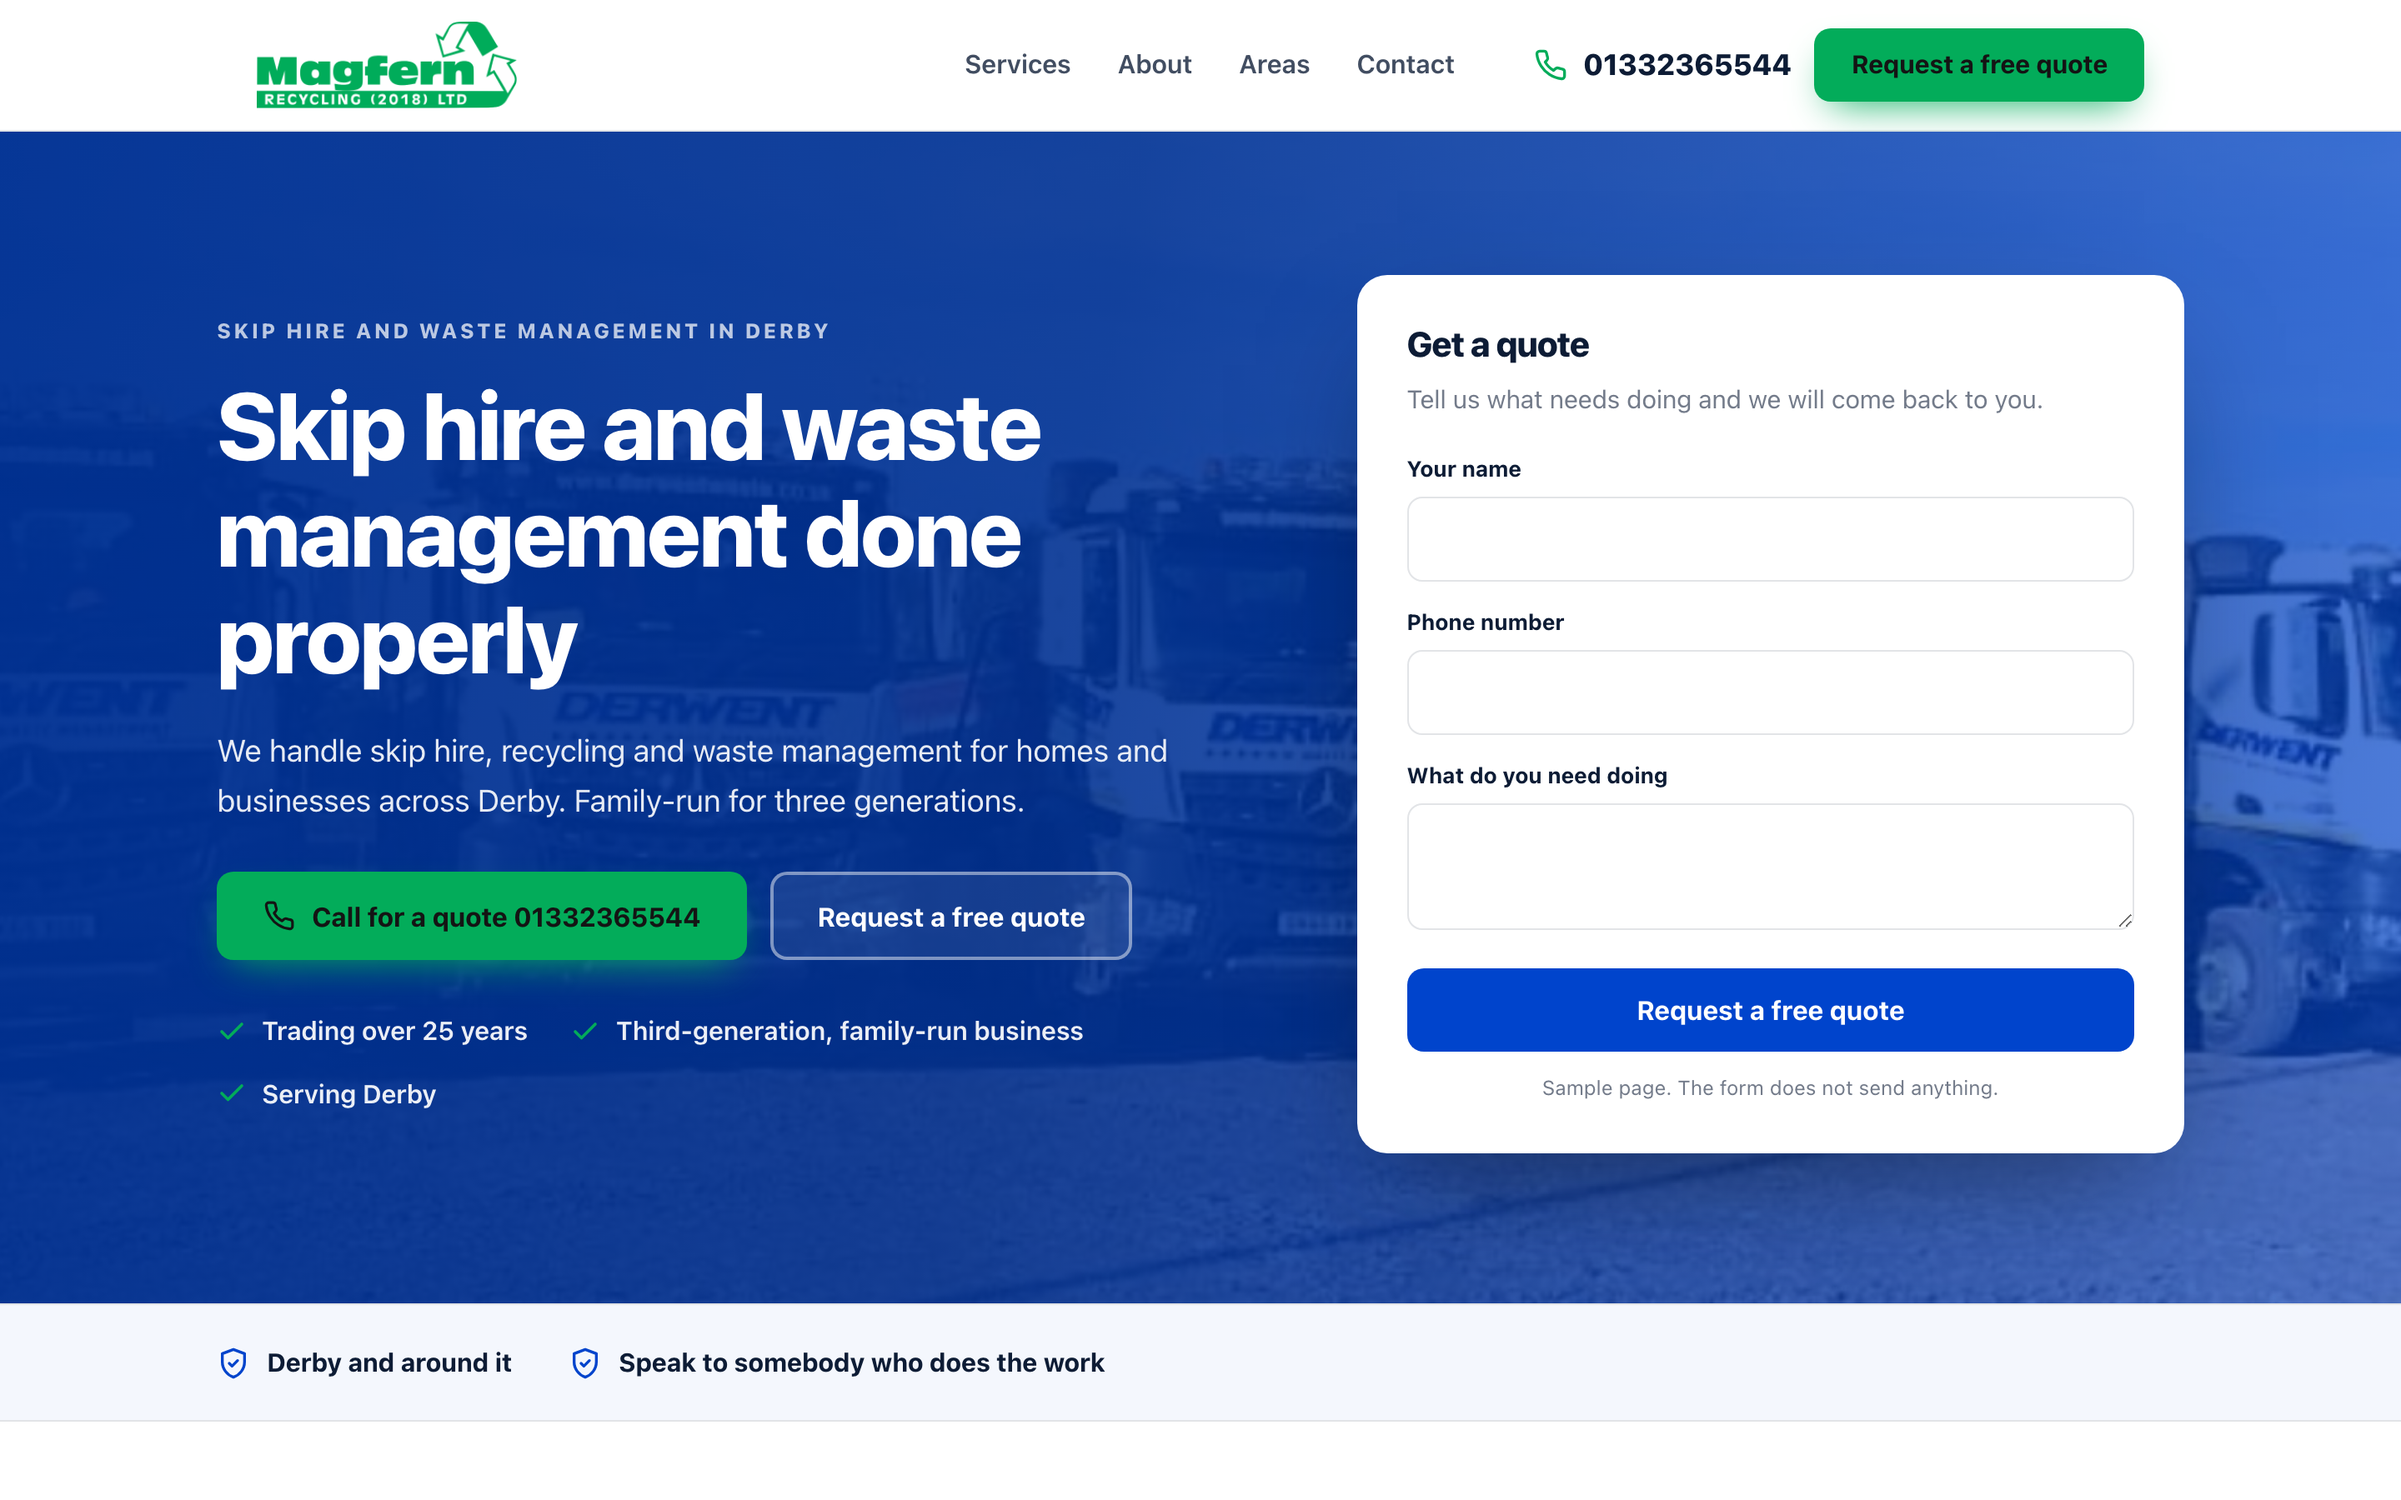
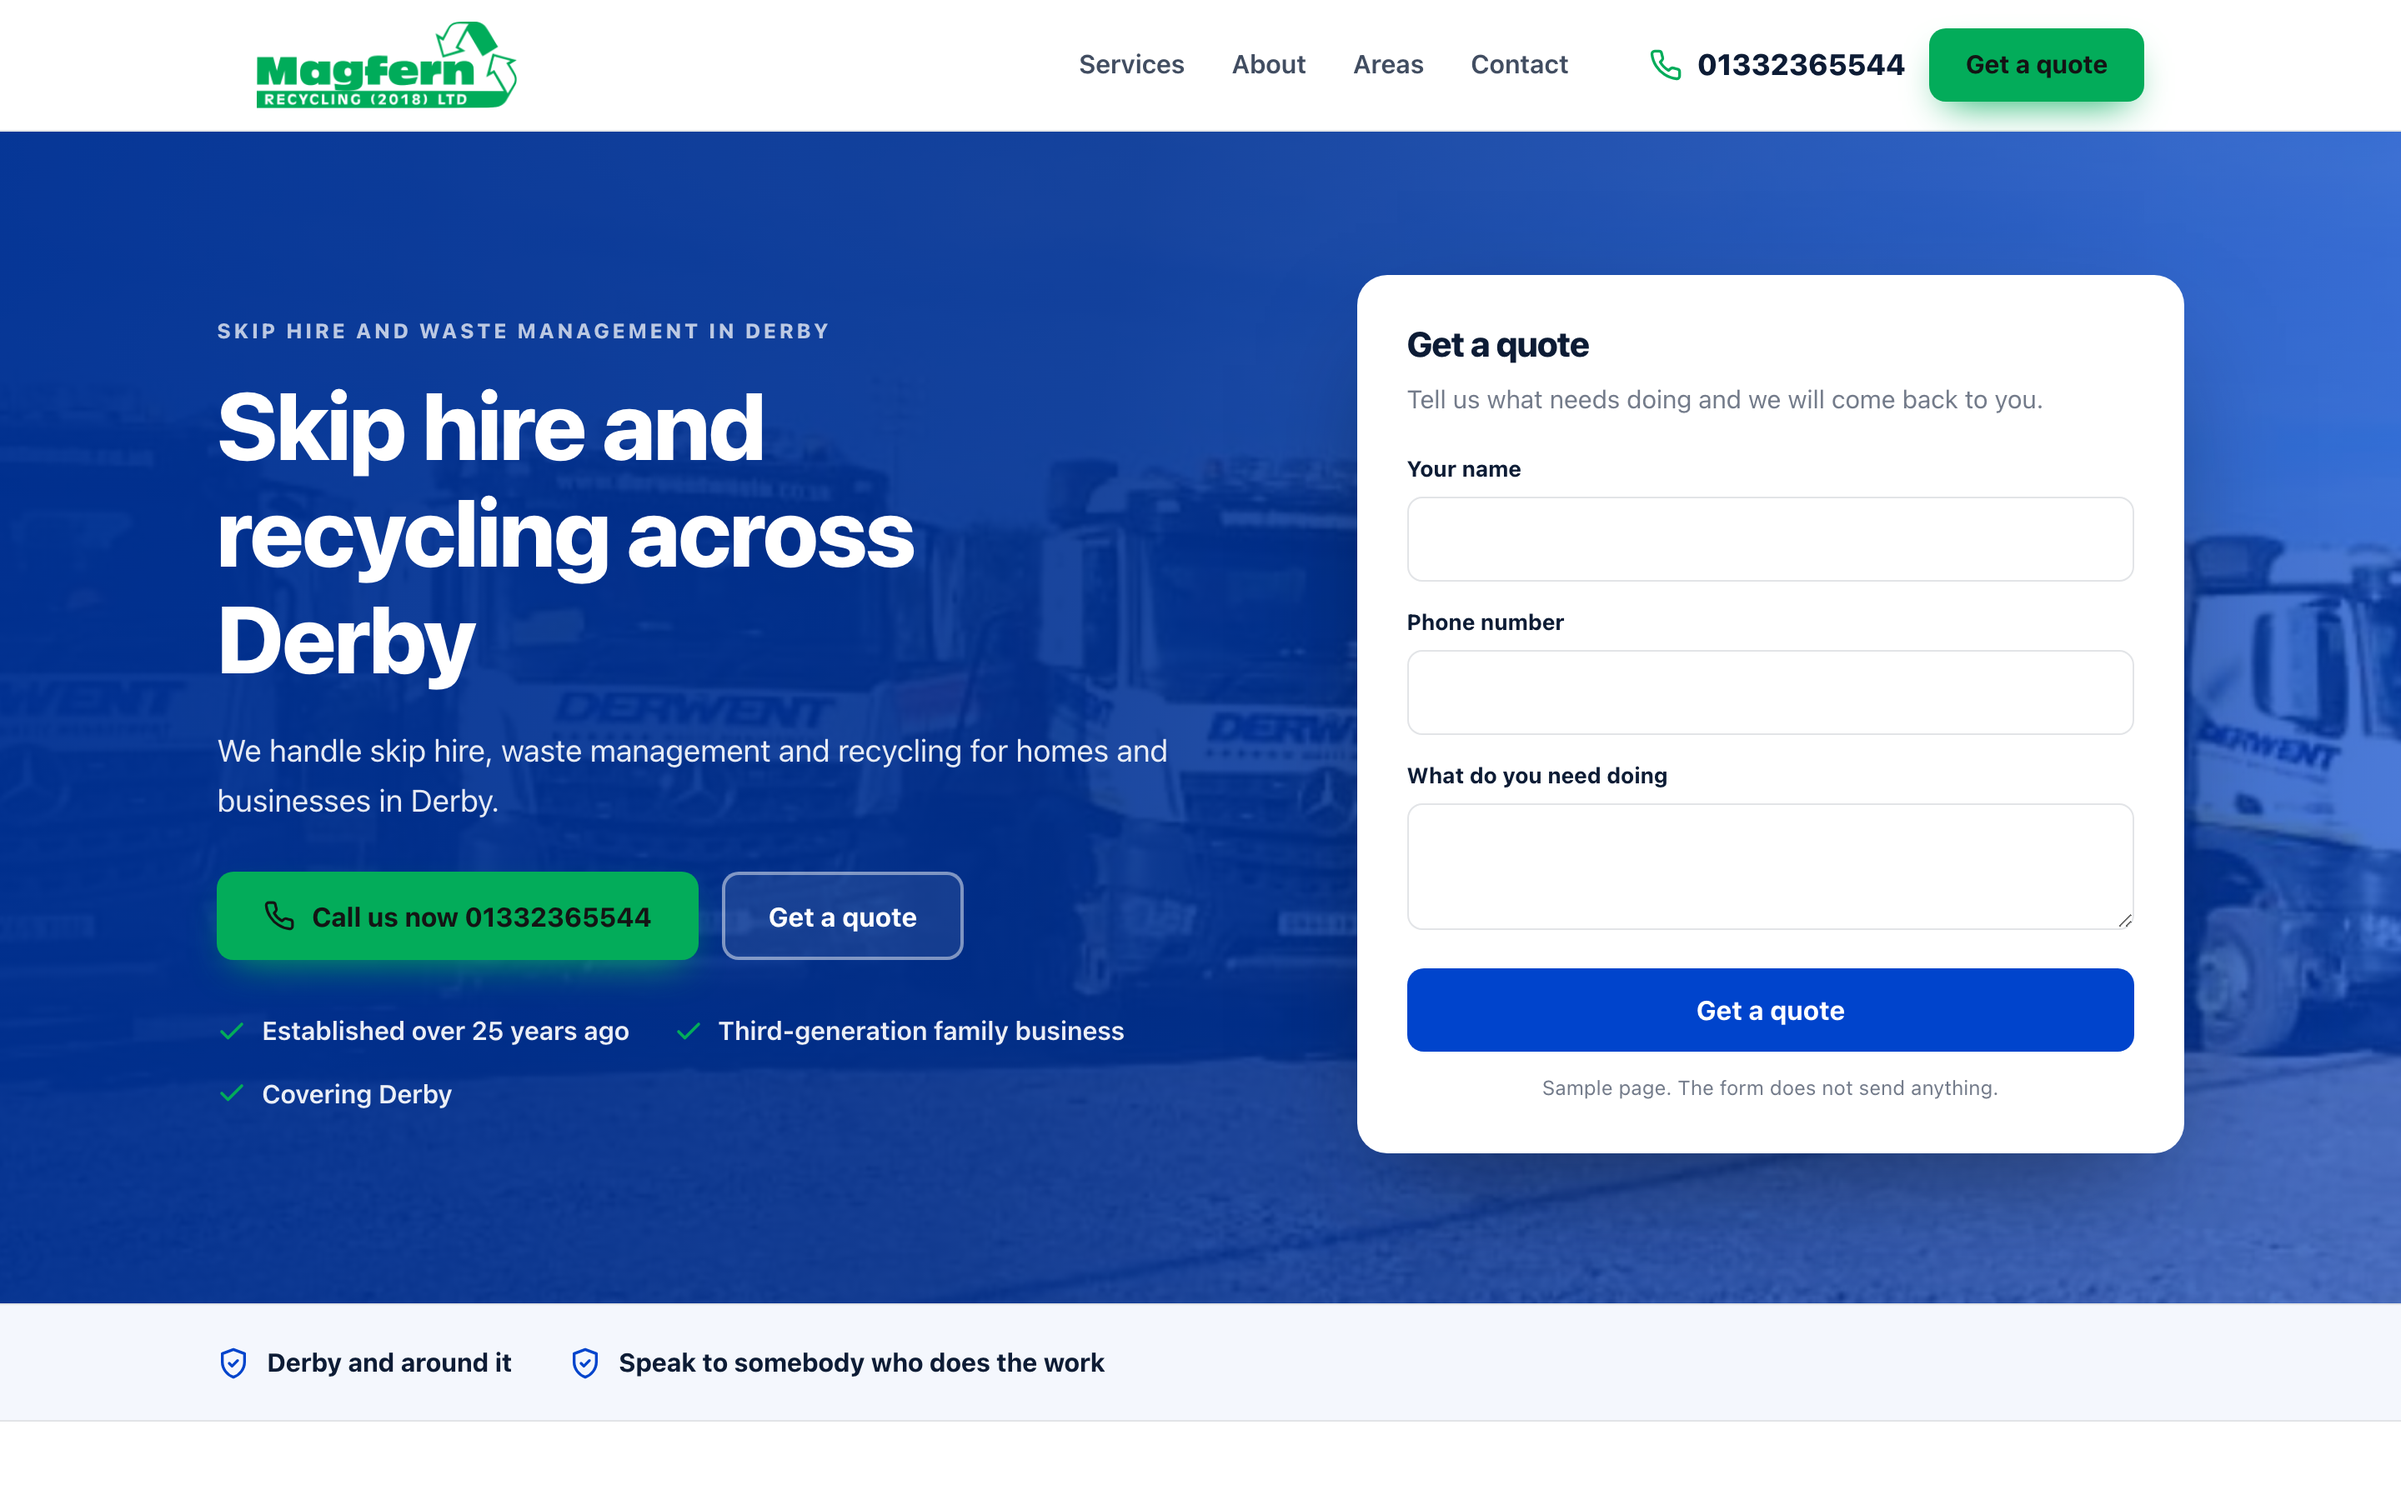
Sample homepage for Magfern Recycling Ltd

diff --git a/docs/e167220f99/index.html b/docs/e167220f99/index.html
@@ -4,13 +4,13 @@
 <meta charset="utf-8">
 <meta name="viewport" content="width=device-width, initial-scale=1">
 <meta name="robots" content="noindex,nofollow">
-<meta name="aso-build" content="">
+<meta name="aso-build" content="a5c5fa5050aa">
 <title>Magfern Recycling Ltd sample homepage</title>
-<meta name="description" content="We handle skip hire, recycling and waste management for homes and businesses across Derby. Family-run for three generations.">
+<meta name="description" content="We handle skip hire, waste management and recycling for homes and businesses in Derby.">
 <link rel="canonical" href="https://markygff.github.io/aso-mockups/e167220f99/">
 <meta property="og:type" content="website">
 <meta property="og:title" content="Magfern Recycling Ltd sample homepage">
-<meta property="og:description" content="We handle skip hire, recycling and waste management for homes and businesses across Derby. Family-run for three generations.">
+<meta property="og:description" content="We handle skip hire, waste management and recycling for homes and businesses in Derby.">
 <meta property="og:url" content="https://markygff.github.io/aso-mockups/e167220f99/">
 <meta property="og:image" content="img/p00.jpg"><style>
 :root{
@@ -127,7 +127,7 @@ p{margin:0}
     </nav>
     <div class="header-cta">
       <a class="tel" href="tel:+441332365544"><svg viewBox="0 0 24 24" fill="none" stroke="currentColor" stroke-width="2" stroke-linecap="round" stroke-linejoin="round" aria-hidden="true"><path d="M22 16.9v3a2 2 0 0 1-2.2 2 19.8 19.8 0 0 1-8.6-3.1 19.5 19.5 0 0 1-6-6 19.8 19.8 0 0 1-3.1-8.7A2 2 0 0 1 4.1 2h3a2 2 0 0 1 2 1.7c.1 1 .4 1.9.7 2.8a2 2 0 0 1-.5 2.1L8.1 9.9a16 16 0 0 0 6 6l1.3-1.2a2 2 0 0 1 2.1-.5c.9.3 1.8.6 2.8.7a2 2 0 0 1 1.7 2z"/></svg><span>01332365544</span></a>
-      <span class="btn btn-accent">Request a free quote</span>
+      <span class="btn btn-accent">Get a quote</span>
     </div>
   </div>
 </header>
@@ -137,14 +137,14 @@ p{margin:0}
   <div class="wrap hero-in">
     <div>
       <p class="eyebrow">Skip hire and waste management in Derby</p>
-      <h1>Skip hire and waste management done properly</h1>
-      <p class="hero-sub">We handle skip hire, recycling and waste management for homes and businesses across Derby. Family-run for three generations.</p>
+      <h1>Skip hire and recycling across Derby</h1>
+      <p class="hero-sub">We handle skip hire, waste management and recycling for homes and businesses in Derby.</p>
       <div class="hero-actions">
-        <span class="btn btn-accent"><svg viewBox="0 0 24 24" fill="none" stroke="currentColor" stroke-width="2" stroke-linecap="round" stroke-linejoin="round" aria-hidden="true"><path d="M22 16.9v3a2 2 0 0 1-2.2 2 19.8 19.8 0 0 1-8.6-3.1 19.5 19.5 0 0 1-6-6 19.8 19.8 0 0 1-3.1-8.7A2 2 0 0 1 4.1 2h3a2 2 0 0 1 2 1.7c.1 1 .4 1.9.7 2.8a2 2 0 0 1-.5 2.1L8.1 9.9a16 16 0 0 0 6 6l1.3-1.2a2 2 0 0 1 2.1-.5c.9.3 1.8.6 2.8.7a2 2 0 0 1 1.7 2z"/></svg>Call for a quote 01332365544</span>
-        <span class="btn btn-ghost">Request a free quote</span>
+        <span class="btn btn-accent"><svg viewBox="0 0 24 24" fill="none" stroke="currentColor" stroke-width="2" stroke-linecap="round" stroke-linejoin="round" aria-hidden="true"><path d="M22 16.9v3a2 2 0 0 1-2.2 2 19.8 19.8 0 0 1-8.6-3.1 19.5 19.5 0 0 1-6-6 19.8 19.8 0 0 1-3.1-8.7A2 2 0 0 1 4.1 2h3a2 2 0 0 1 2 1.7c.1 1 .4 1.9.7 2.8a2 2 0 0 1-.5 2.1L8.1 9.9a16 16 0 0 0 6 6l1.3-1.2a2 2 0 0 1 2.1-.5c.9.3 1.8.6 2.8.7a2 2 0 0 1 1.7 2z"/></svg>Call us now 01332365544</span>
+        <span class="btn btn-ghost">Get a quote</span>
       </div>
       <ul class="hero-bullets">
-<li><svg viewBox="0 0 24 24" fill="none" stroke="currentColor" stroke-width="2.4" stroke-linecap="round" stroke-linejoin="round" aria-hidden="true"><path d="M20 6 9 17l-5-5"/></svg><span>Trading over 25 years</span></li><li><svg viewBox="0 0 24 24" fill="none" stroke="currentColor" stroke-width="2.4" stroke-linecap="round" stroke-linejoin="round" aria-hidden="true"><path d="M20 6 9 17l-5-5"/></svg><span>Third-generation, family-run business</span></li><li><svg viewBox="0 0 24 24" fill="none" stroke="currentColor" stroke-width="2.4" stroke-linecap="round" stroke-linejoin="round" aria-hidden="true"><path d="M20 6 9 17l-5-5"/></svg><span>Serving Derby</span></li>      </ul>
+<li><svg viewBox="0 0 24 24" fill="none" stroke="currentColor" stroke-width="2.4" stroke-linecap="round" stroke-linejoin="round" aria-hidden="true"><path d="M20 6 9 17l-5-5"/></svg><span>Established over 25 years ago</span></li><li><svg viewBox="0 0 24 24" fill="none" stroke="currentColor" stroke-width="2.4" stroke-linecap="round" stroke-linejoin="round" aria-hidden="true"><path d="M20 6 9 17l-5-5"/></svg><span>Third-generation family business</span></li><li><svg viewBox="0 0 24 24" fill="none" stroke="currentColor" stroke-width="2.4" stroke-linecap="round" stroke-linejoin="round" aria-hidden="true"><path d="M20 6 9 17l-5-5"/></svg><span>Covering Derby</span></li>      </ul>
     </div>
     <div class="quote-card">
       <h3>Get a quote</h3>
@@ -152,7 +152,7 @@ p{margin:0}
       <div class="field"><label>Your name</label><input type="text" disabled></div>
       <div class="field"><label>Phone number</label><input type="tel" disabled></div>
       <div class="field"><label>What do you need doing</label><textarea disabled></textarea></div>
-      <span class="btn btn-primary">Request a free quote</span>
+      <span class="btn btn-primary">Get a quote</span>
       <p class="sample-note">Sample page. The form does not send anything.</p>
     </div>
   </div>
@@ -170,28 +170,28 @@ p{margin:0}
     <div class="services-head">
       <p class="eyebrow">What we do</p>
       <h2>Magfern Recycling Ltd, Derby</h2>
-      <p>We handle skip hire, recycling and waste management for homes and businesses across Derby. Family-run for three generations.</p>
+      <p>We handle skip hire, waste management and recycling for homes and businesses in Derby.</p>
     </div>
     <div class="grid">
       <article class="card">
         <div class="icon"><svg viewBox="0 0 24 24" fill="none" stroke="currentColor" stroke-width="2" stroke-linecap="round" stroke-linejoin="round" aria-hidden="true"><path d="M14.7 6.3a4 4 0 0 0 5.3 5.3l-8 8a3 3 0 0 1-4.2-4.2z"/><path d="m14.7 6.3 3-3"/></svg></div>
         <h3>Skip Hire</h3>
-        <p>Order a skip for your home or business, with a range of sizes to suit the job.</p>
+        <p>Skips delivered fast, in sizes to suit any job.</p>
       </article>
       <article class="card">
         <div class="icon"><svg viewBox="0 0 24 24" fill="none" stroke="currentColor" stroke-width="2" stroke-linecap="round" stroke-linejoin="round" aria-hidden="true"><path d="M13 2 4 14h7l-1 8 9-12h-7z"/></svg></div>
         <h3>Waste Management</h3>
-        <p>We manage waste collection and disposal for businesses across Derby.</p>
+        <p>We manage waste collection for businesses across Derby.</p>
       </article>
       <article class="card">
         <div class="icon"><svg viewBox="0 0 24 24" fill="none" stroke="currentColor" stroke-width="2" stroke-linecap="round" stroke-linejoin="round" aria-hidden="true"><path d="M3 10.5 12 3l9 7.5"/><path d="M5 9.5V21h14V9.5"/><path d="M10 21v-6h4v6"/></svg></div>
         <h3>Recycling</h3>
-        <p>We recycle materials from skips and waste collections wherever we can.</p>
+        <p>We recycle what we can from every load we take.</p>
       </article>
       <article class="card">
         <div class="icon"><svg viewBox="0 0 24 24" fill="none" stroke="currentColor" stroke-width="2" stroke-linecap="round" stroke-linejoin="round" aria-hidden="true"><path d="M4 20 15 9"/><path d="m14 4 6 6-3 3-6-6z"/><path d="m3 15 6 6"/></svg></div>
         <h3>Roll On/Off Containers</h3>
-        <p>Our roll on/roll off vehicles handle larger loads and bigger projects.</p>
+        <p>Roll on/roll off containers for bigger jobs and sites.</p>
       </article>
     </div>
   </div>
